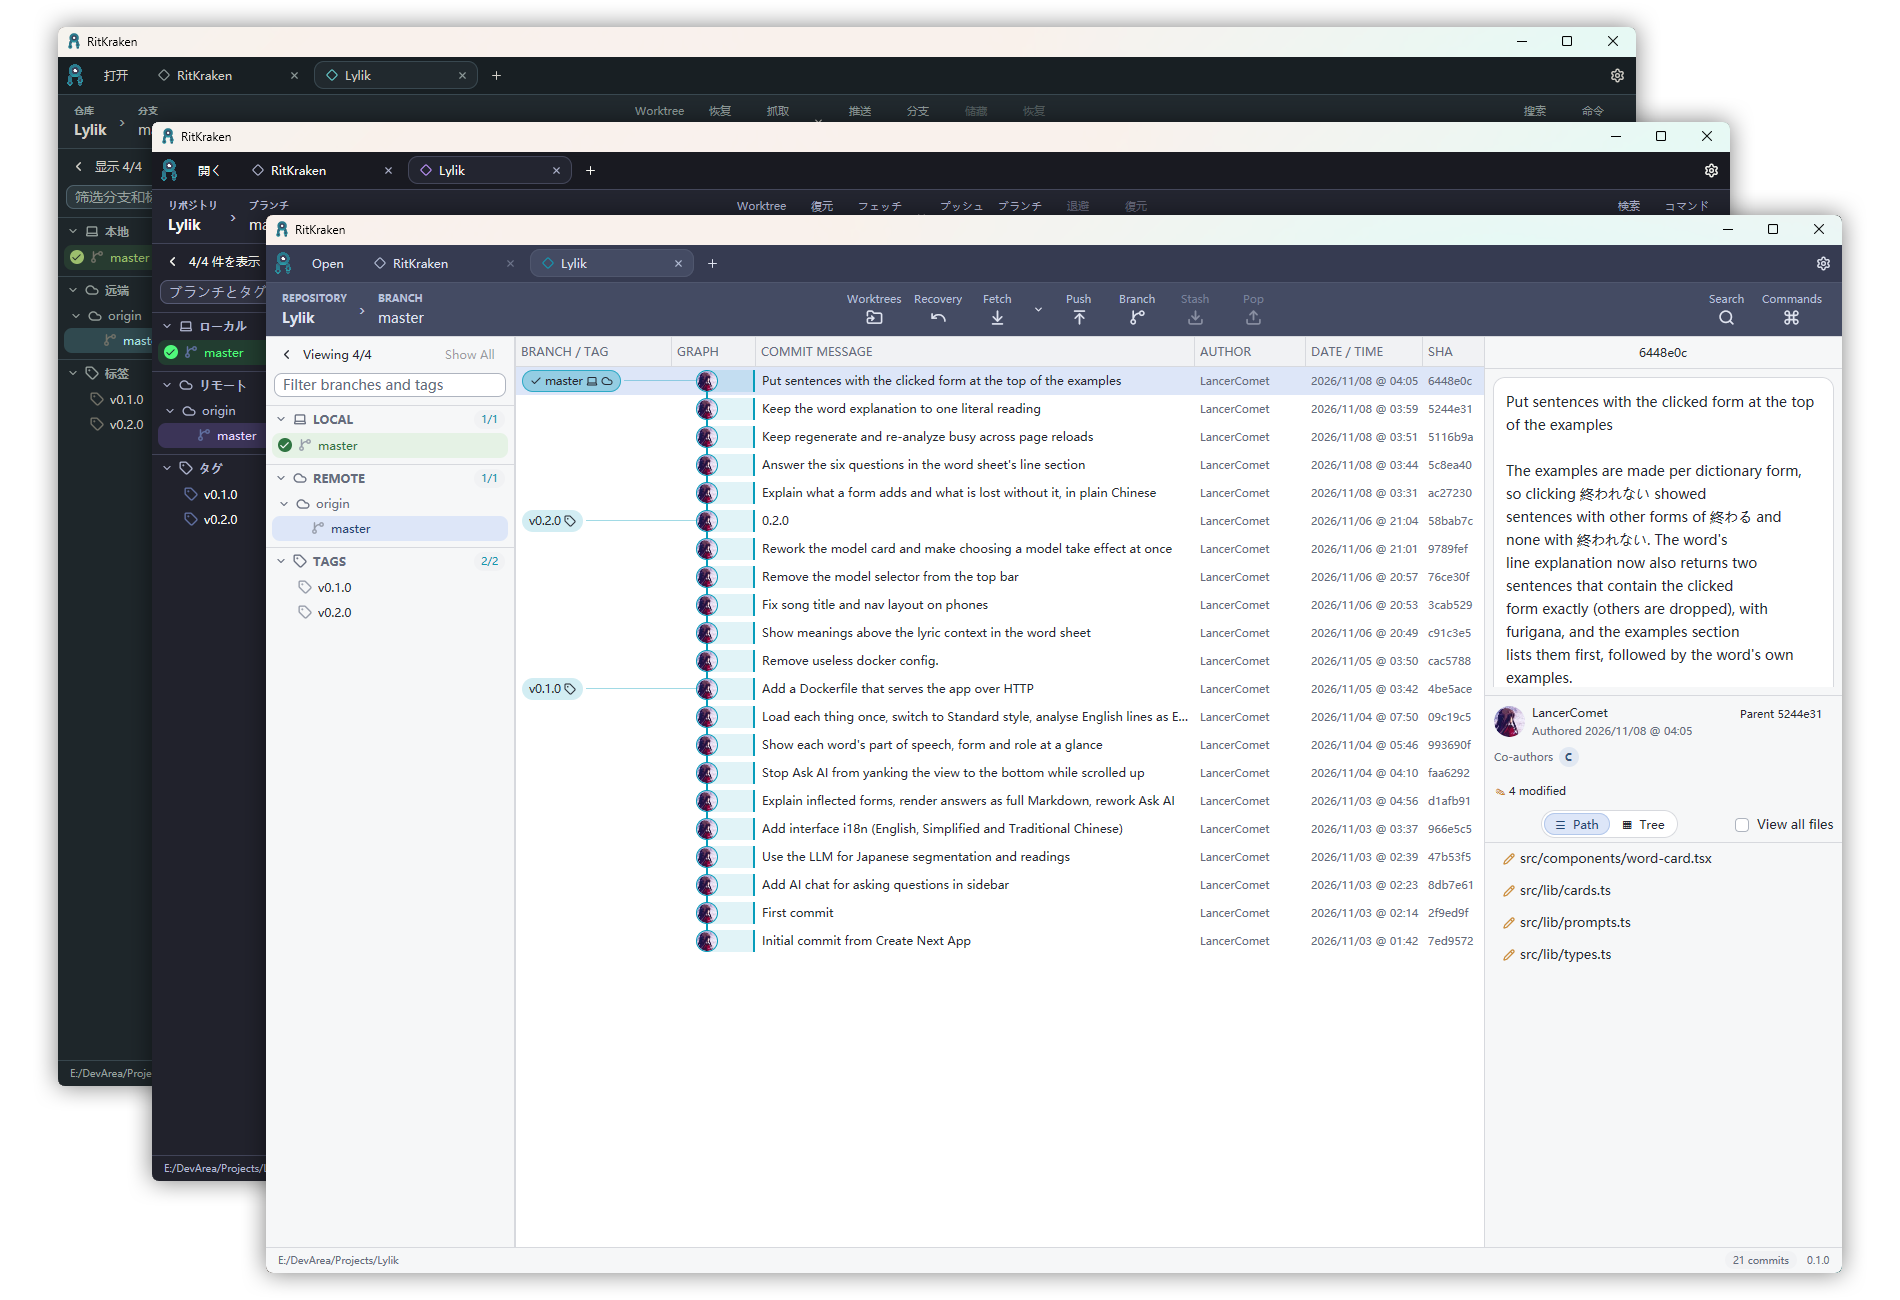
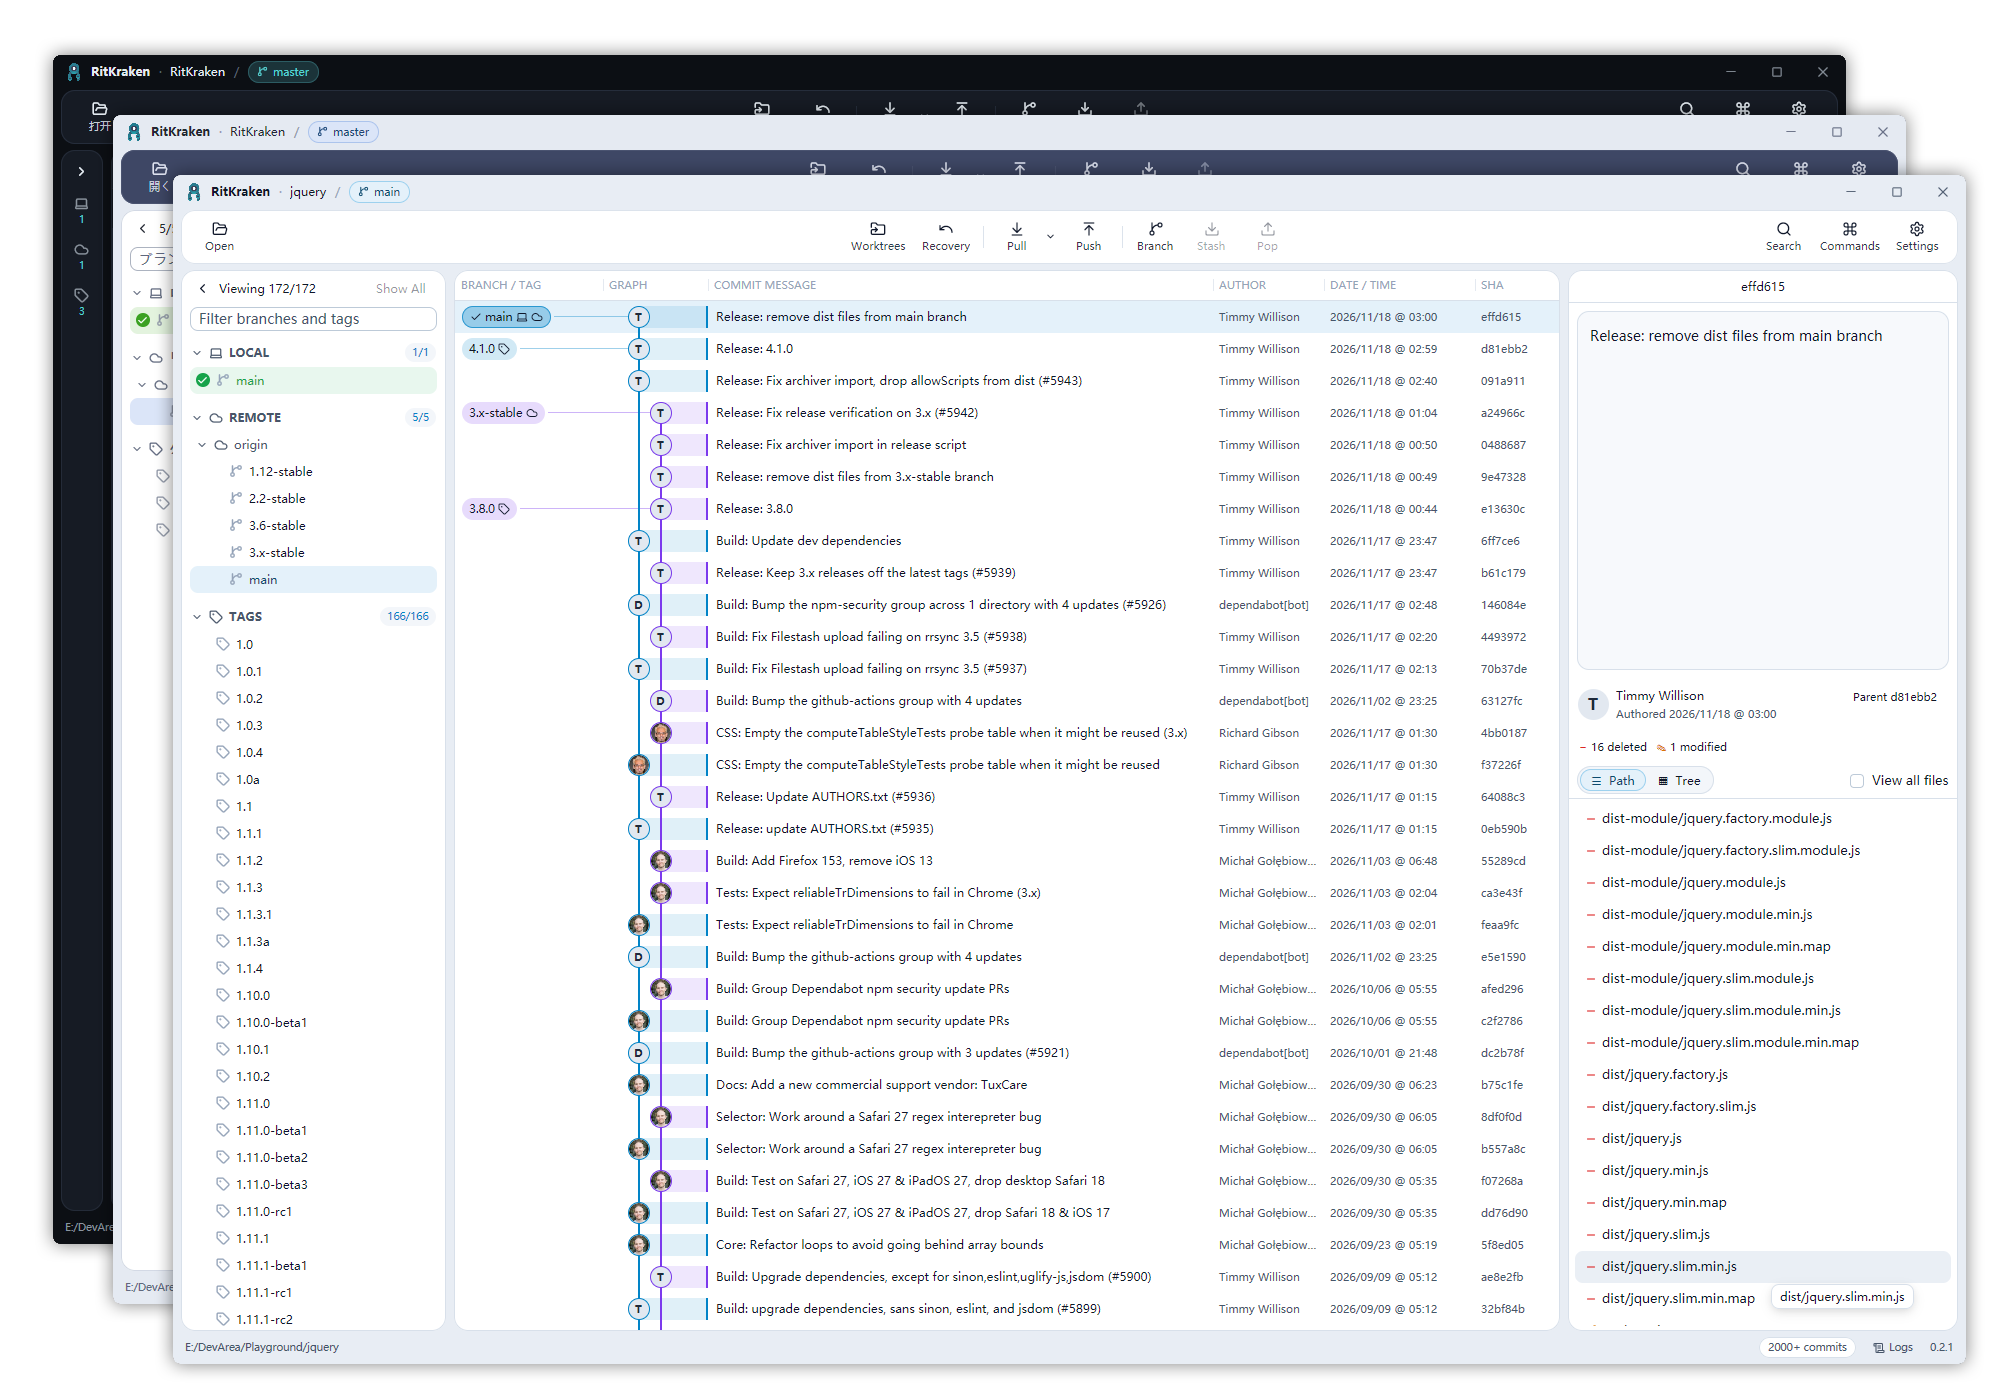
Rename Modern Classic theme, refine multi-select staging, and update preview
- Rename Classic theme to Modern Classic and adjust chrome_alt to #3e4765
- Keep section stage/unstage actions targeting all files until more than one file is selected
- Update docs/preview.png

diff --git a/crates/desktop/src/app/changes/worktree.rs b/crates/desktop/src/app/changes/worktree.rs
@@ -232,18 +232,7 @@ impl Client {
         let id = tab.id;
         let action = StageAction::for_scope(&scope).filter(|_| !files.is_empty());
         let selected = tab.changes.selection.selected(&scope, files);
-        let selected_count = selected.len();
-        let targets = if selected.is_empty() {
-            files
-                .iter()
-                .map(|change| FileTarget {
-                    scope: scope.clone(),
-                    change: change.clone(),
-                })
-                .collect()
-        } else {
-            selected
-        };
+        let (stage_target, targets) = section_stage_targets(&scope, files, selected);
         let conflicted = targets.iter().any(|file| file.change.code == b'U');
         div()
             .flex_1()
@@ -280,10 +269,8 @@ impl Client {
                                 title_key,
                                 if conflicted {
                                     tr!("app.conflicts.resolve")
-                                } else if selected_count > 0 {
-                                    action.label(StageTarget::Selected(selected_count))
                                 } else {
-                                    action.label(StageTarget::All)
+                                    action.label(stage_target)
                                 },
                                 action.tone(),
                                 !tab.busy,
@@ -299,5 +286,80 @@ impl Client {
                     }),
             )
             .child(self.file_list(tab, files, scope, cx))
+    }
+}
+
+fn section_stage_targets(
+    scope: &Scope,
+    files: &[Change],
+    selected: Vec<FileTarget>,
+) -> (StageTarget, Vec<FileTarget>) {
+    if selected.len() > 1 {
+        let count = selected.len();
+        (StageTarget::Selected(count), selected)
+    } else {
+        let targets = files
+            .iter()
+            .map(|change| FileTarget {
+                scope: scope.clone(),
+                change: change.clone(),
+            })
+            .collect();
+        (StageTarget::All, targets)
+    }
+}
+
+#[cfg(test)]
+mod tests {
+    use ritkraken_git::{Change, FileTarget, Scope};
+
+    use super::{StageTarget, section_stage_targets};
+
+    fn sample_files() -> Vec<Change> {
+        ["a.rs", "b.rs", "c.rs"]
+            .map(|path| Change {
+                path: path.into(),
+                previous: None,
+                code: b'M',
+            })
+            .to_vec()
+    }
+
+    #[test]
+    fn section_action_stays_all_for_zero_or_one_selected_and_targets_selection_above_one() {
+        let files = sample_files();
+        for scope in [Scope::Worktree, Scope::Index] {
+            let (target, all) = section_stage_targets(&scope, &files, Vec::new());
+            assert!(matches!(target, StageTarget::All));
+            assert_eq!(all.len(), files.len());
+
+            let one = vec![FileTarget {
+                scope: scope.clone(),
+                change: files[0].clone(),
+            }];
+            let (target, still_all) = section_stage_targets(&scope, &files, one);
+            assert!(matches!(target, StageTarget::All));
+            assert_eq!(still_all.len(), files.len());
+
+            let two = vec![
+                FileTarget {
+                    scope: scope.clone(),
+                    change: files[0].clone(),
+                },
+                FileTarget {
+                    scope: scope.clone(),
+                    change: files[2].clone(),
+                },
+            ];
+            let (target, subset) = section_stage_targets(&scope, &files, two);
+            assert!(matches!(target, StageTarget::Selected(2)));
+            assert_eq!(
+                subset
+                    .iter()
+                    .map(|item| item.change.path.to_str().unwrap())
+                    .collect::<Vec<_>>(),
+                ["a.rs", "c.rs"]
+            );
+        }
     }
 }

diff --git a/crates/desktop/src/app/theme/palettes.rs b/crates/desktop/src/app/theme/palettes.rs
@@ -15,7 +15,7 @@ pub(in crate::app) struct SyntaxColors {
 }
 
 pub(super) fn classic() -> ThemeSpec {
-    // Original RitKraken Classic palette adapted for Tonal Bento surfaces.
+    // Original Modern Classic palette adapted for Tonal Bento surfaces.
     ThemeSpec {
         palette: Palette {
             is_dark: false,
@@ -24,7 +24,7 @@ pub(super) fn classic() -> ThemeSpec {
             surface: 0xffffff,
             surface_dim: 0xf1f2f4,
             surface_high: 0xf6f7f8,
-            chrome_alt: 0x444b63,
+            chrome_alt: 0x3e4765,
             chrome_hover: 0x555f7c,
             chrome_border: 0x50576e,
             chrome_text: 0xe0e4f0,

diff --git a/crates/desktop/src/app/theme.rs b/crates/desktop/src/app/theme.rs
@@ -52,7 +52,7 @@ impl ThemeId {
 
     pub(in crate::app) fn name(self) -> &'static str {
         match self {
-            Self::Classic => "RitKraken Classic",
+            Self::Classic => "Modern Classic",
             Self::ObsidianBento => "Obsidian Bento",
             Self::Md3Expressive => "MD3 Expressive",
             Self::FluentLight => "Fluent Light",
